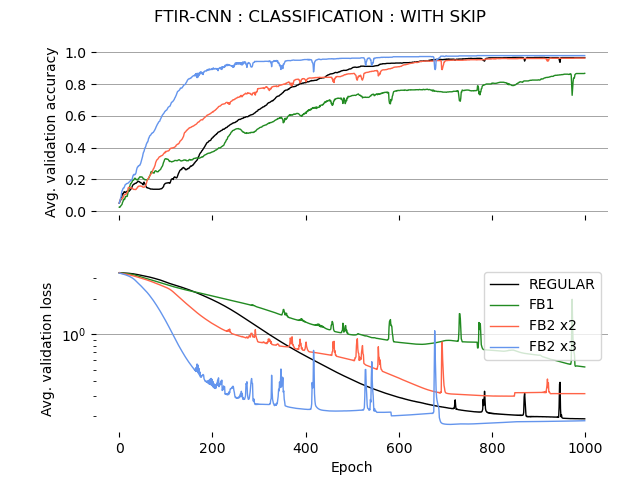
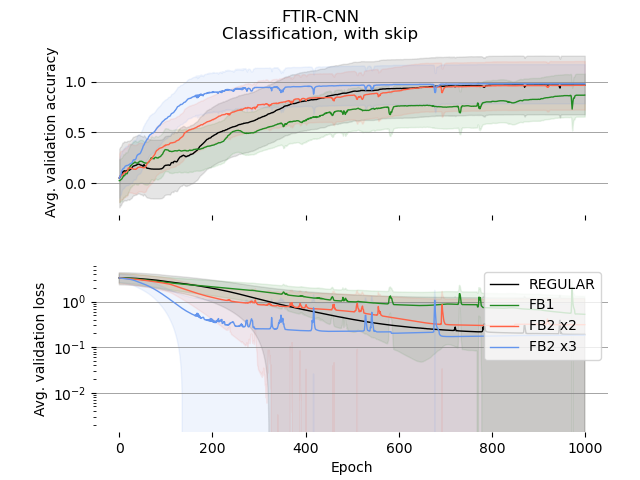
Add shaded deviation.

diff --git a/documentation/comparison.py b/documentation/comparison.py
@@ -26,6 +26,7 @@ for problem in os.listdir("./output/compare/"):
 
     probe = f"./output/compare/probed/{problem}.csv"
     os.makedirs(os.path.dirname(probe), exist_ok=True)
+    os.remove(probe) if os.path.exists(probe) else None
     with open(probe, "a") as f:
         csv.writer(f).writerow(["problem", "configuration", "without", "metric", "mean", "std"])
 
@@ -51,6 +52,21 @@ for problem in os.listdir("./output/compare/"):
                     for l in loss
                 ]
                 loss = np.nanmean(loss, axis=0)
+                std = np.nanstd(loss, axis=0)
+                ax_loss.plot(
+                    loss,
+                    label=configuration.replace(f"-{skip}-{which}", "").replace("x", " x"),
+                    linewidth=1,
+                    color=_COLOUR[configuration.split("-")[0]]
+                )
+                ax_loss.fill_between(
+                    range(len(loss)),
+                    loss - std,
+                    loss + std,
+                    alpha=0.1,
+                    color=_COLOUR[configuration.split("-")[0]]
+                )
+                ax_loss.set_yscale('log')
 
                 accr = [
                     data[configuration][run]["train"]["val-acc"]
@@ -62,18 +78,18 @@ for problem in os.listdir("./output/compare/"):
                     for a in accr
                 ]
                 accr = np.nanmean(accr, axis=0)
-
-                ax_loss.plot(
-                    loss,
-                    label=configuration.replace(f"-{skip}-{which}", "").replace("x", " x"),
-                    linewidth=1,
-                    color=_COLOUR[configuration.split("-")[0]]
-                )
-                ax_loss.set_yscale('log')
+                std = np.nanstd(accr, axis=0)
                 ax_acc.plot(
                     accr,
                     label=configuration.replace(f"-{skip}-{which}", "").replace("x", " x"),
                     linewidth=1,
+                    color=_COLOUR[configuration.split("-")[0]]
+                )
+                ax_acc.fill_between(
+                    range(len(accr)),
+                    accr - std,
+                    accr + std,
+                    alpha=0.1,
                     color=_COLOUR[configuration.split("-")[0]]
                 )
 
@@ -139,7 +155,7 @@ for problem in os.listdir("./output/compare/"):
                     ax.spines[location].set_visible(False)
                     ax.yaxis.grid(True, color='gray', linewidth=0.5)
 
-            fig.suptitle(f"{problem.upper()} : {which} : {'WITH SKIP' if skip == 'true' else 'WITHOUT SKIP'}")
+            fig.suptitle(f"{problem.upper()}\n{which.capitalize()}, {'with skip' if skip == 'true' else 'without skip'}")
             plt.subplots_adjust(left=0.15, right=0.95, top=0.9, bottom=0.1, hspace=0.3)
             fig.savefig(f"{graph}{which.lower()}{'-skip' if skip == 'true' else ''}.png")
             plt.close(fig)
